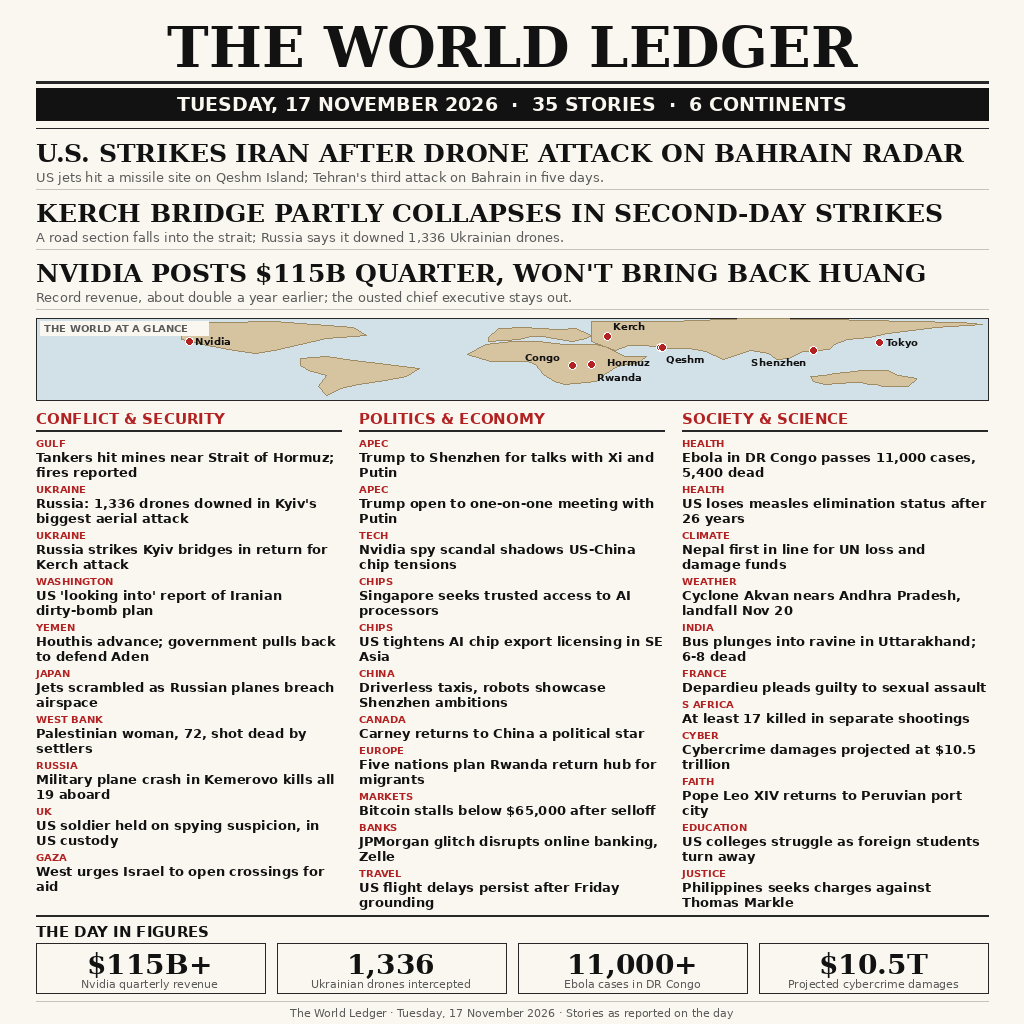
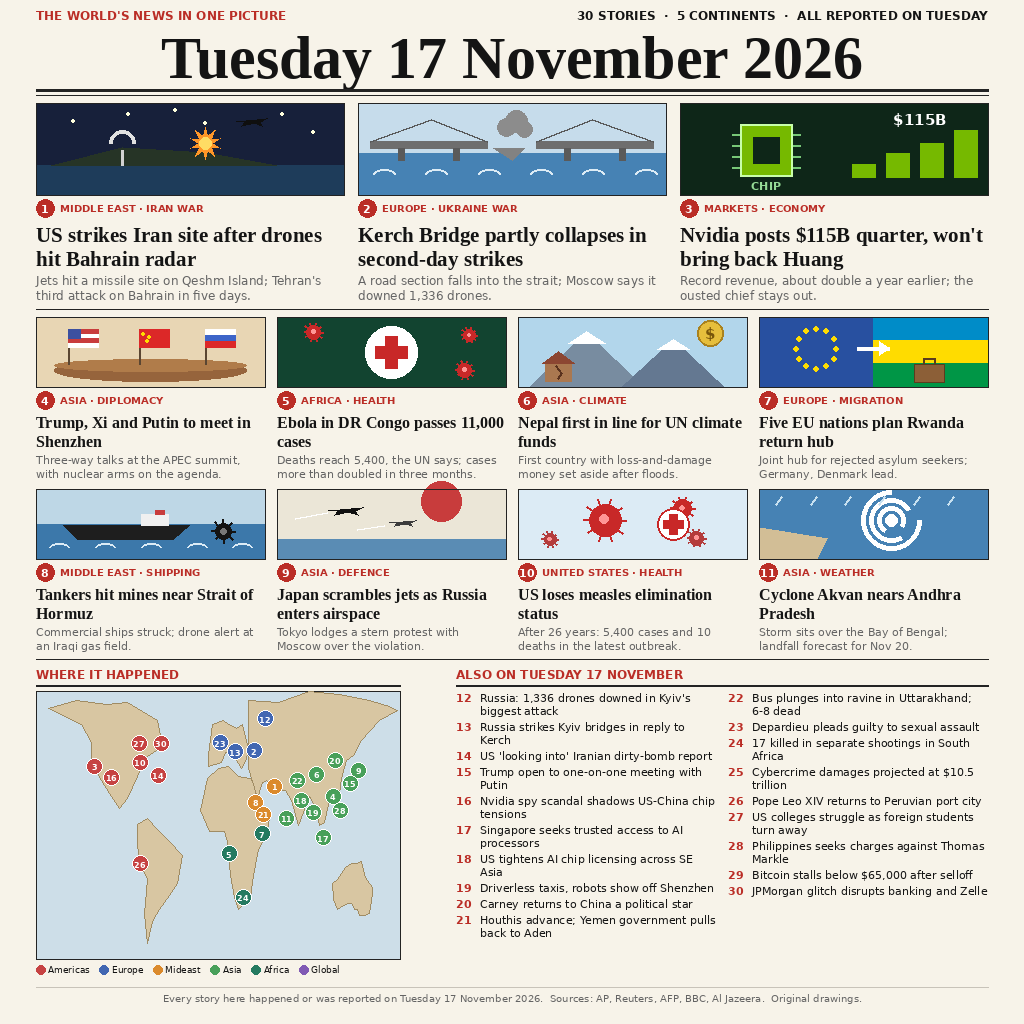
v2: illustrated front page, 30 stories

diff --git a/main.ts b/main.ts
@@ -1,33 +1,23 @@
-// Entry program for the news-image-20261117 bounty on make.fun.
-// Job: hand the prepared artwork (entry.png) over to the judging harness
-// by copying it byte-for-byte into the output directory the harness
-// provides through MAKEFUN_OUTPUT_DIR (falling back to /output).
-//
-// Only Node's standard library is used, nothing is fetched from the
-// network, and the copy is a pure byte transfer, so every run produces
-// an identical output file.
-
-import { copyFileSync, existsSync, mkdirSync, statSync } from "node:fs";
+import { copyFileSync, mkdirSync } from "node:fs";
 import { dirname, join } from "node:path";
 import { fileURLToPath } from "node:url";
 
-const here = dirname(fileURLToPath(import.meta.url));
-const source = join(here, "entry.png");
+// The entry image is rendered outside this program. This entrypoint
+// only copies it into the output directory the judge reads from,
+// so the result is byte-identical on every run.
+function main(): void {
+  const here = dirname(fileURLToPath(import.meta.url));
+  const outDir = process.env.MAKEFUN_OUTPUT_DIR || "/output";
 
-// Validate the artwork before doing anything: it must exist next to this
-// program and contain at least one byte. Failing loudly here beats writing
-// an empty or missing image into the output directory.
-if (!existsSync(source)) {
-  console.error(`error: source image not found: ${source}`);
-  process.exit(1);
-}
-if (statSync(source).size === 0) {
-  console.error(`error: source image is empty: ${source}`);
-  process.exit(1);
-}
-const outDir = process.env.MAKEFUN_OUTPUT_DIR || "/output";
-const target = join(outDir, "entry.png");
+  const src = join(here, "entry.png");
+  const dest = join(outDir, "entry.png");
 
-mkdirSync(outDir, { recursive: true });
-copyFileSync(source, target);
-console.log(`copied entry.png -> ${target}`);
+  mkdirSync(outDir, { recursive: true });
+  try {
+    copyFileSync(src, dest);
+  } catch (err) {
+    throw new Error(`failed to copy ${src} to ${dest}: ${err}`);
+  }
+}
+
+main();

diff --git a/README.md b/README.md
@@ -4,7 +4,7 @@
 [![rank](https://make.fun/badge/news-image-20261117/durov001/tuesday-17-november-2026/rank.svg)](https://make.fun/bounty/news-image-20261117/leaderboard?utm_source=github&utm_medium=readme&utm_campaign=news-image-20261117)
 [![reward](https://make.fun/badge/news-image-20261117/durov001/tuesday-17-november-2026/reward.svg)](https://make.fun/bounty/news-image-20261117?utm_source=github&utm_medium=readme&utm_campaign=news-image-20261117)
 
-The World Ledger — one front page summing up Tuesday 17 November 2026 world news: 35 stories from six continents, with a world map and the day in figures. Entry for the make.fun news-image-20261117 bounty.
+The World's News in One Picture — one front page summing up Tuesday 17 November 2026 world news: 30 stories from five continents, 11 of them illustrated, with a world map marking where each story happened. Entry for the make.fun news-image-20261117 bounty.
 
 ## Run it
 
